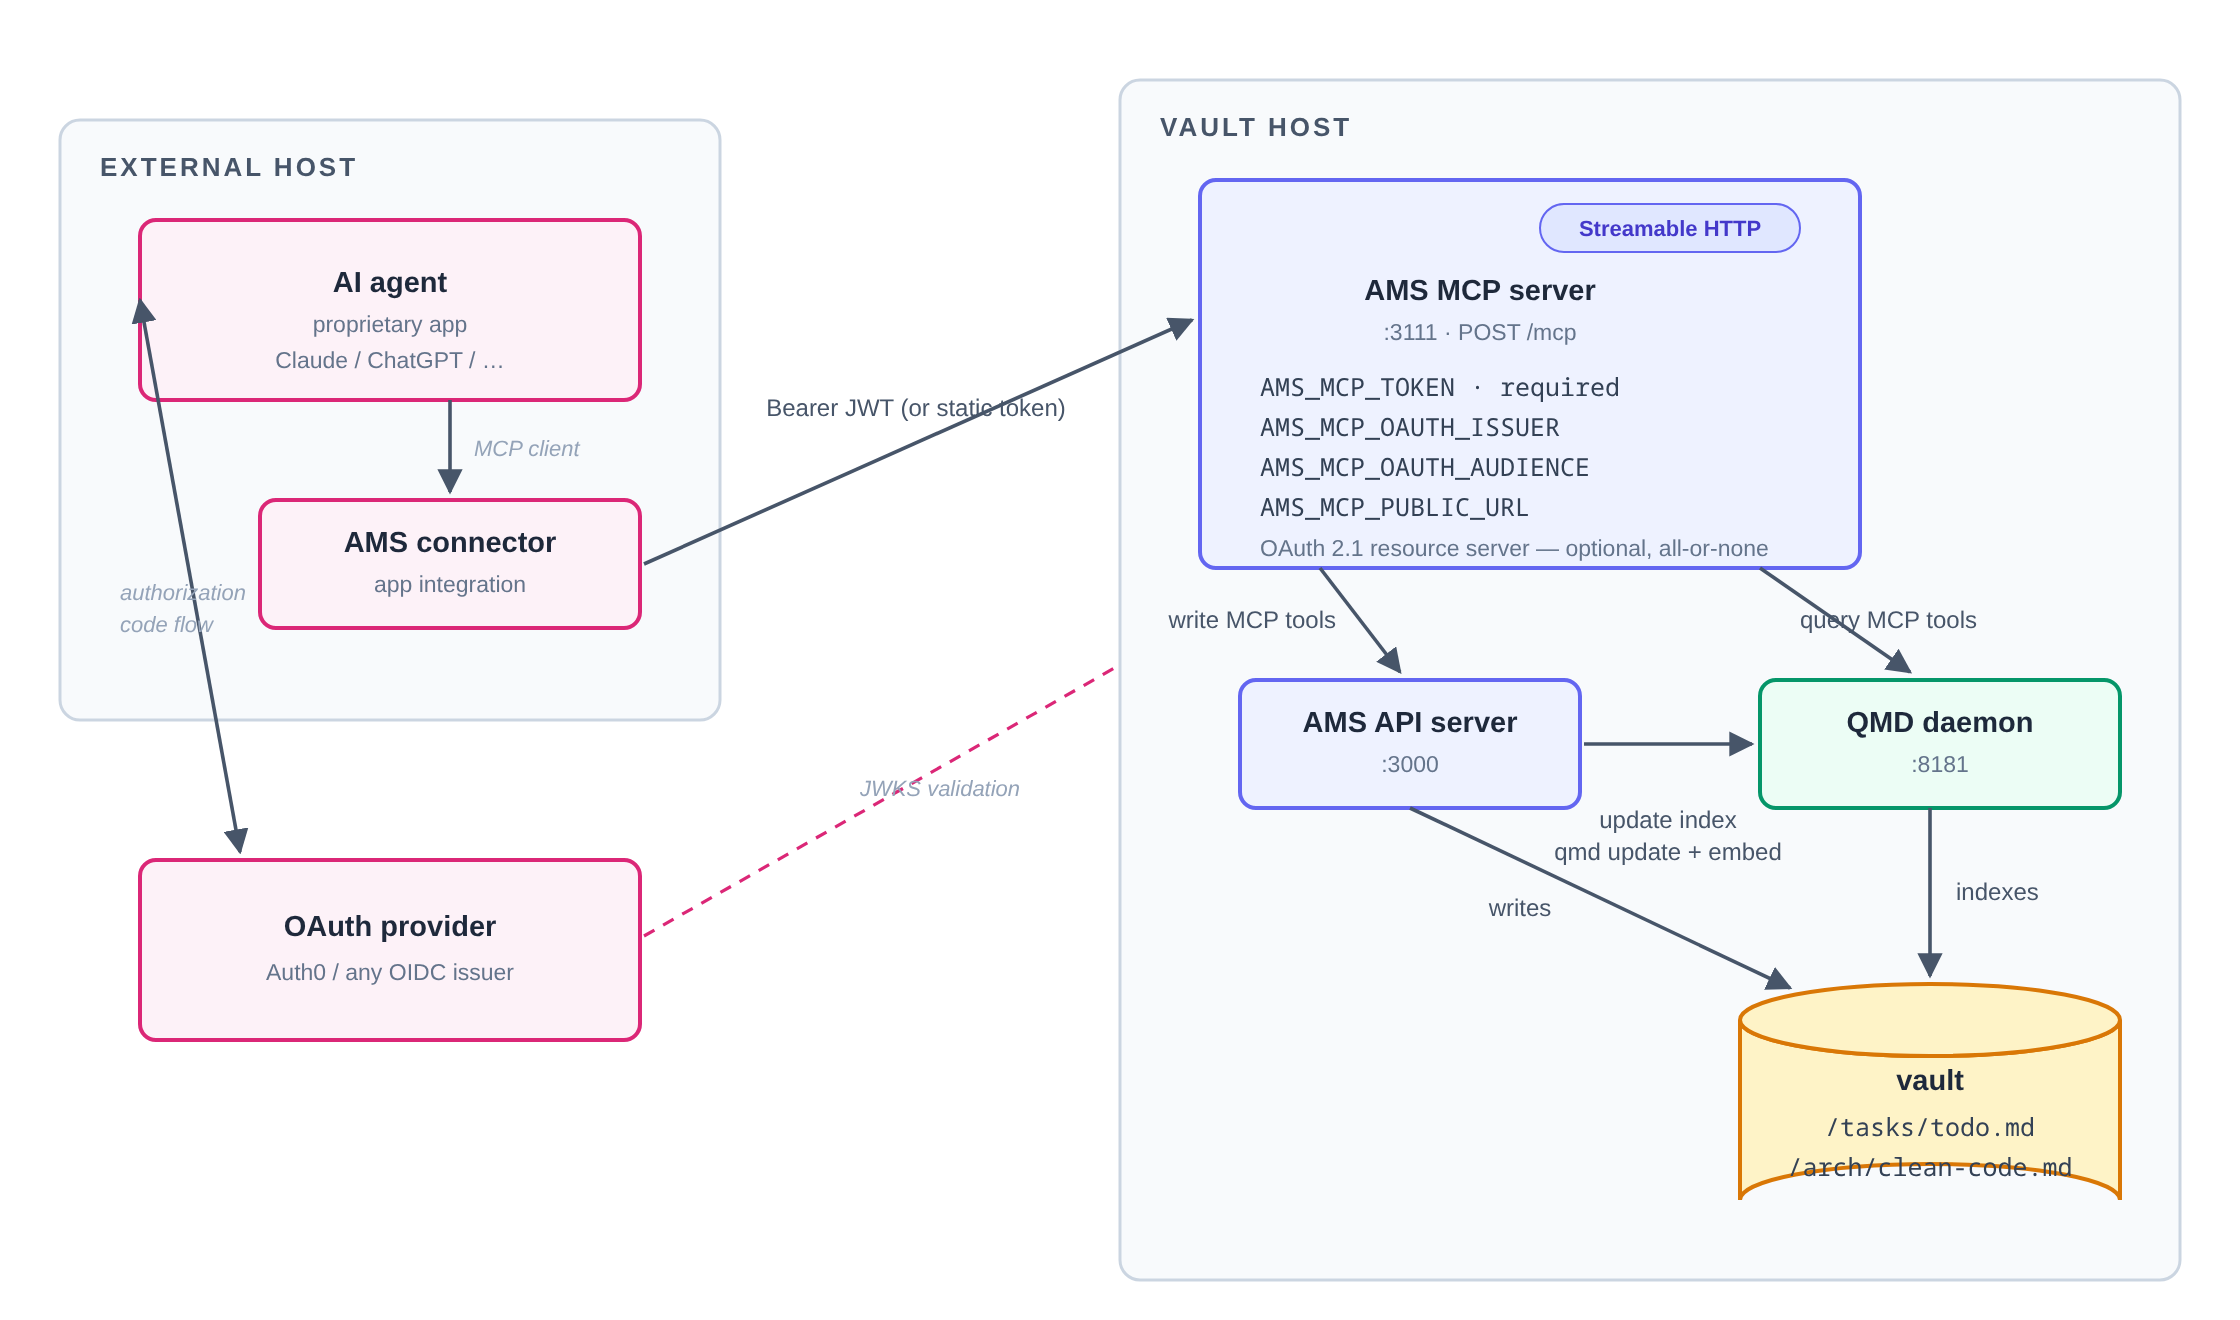
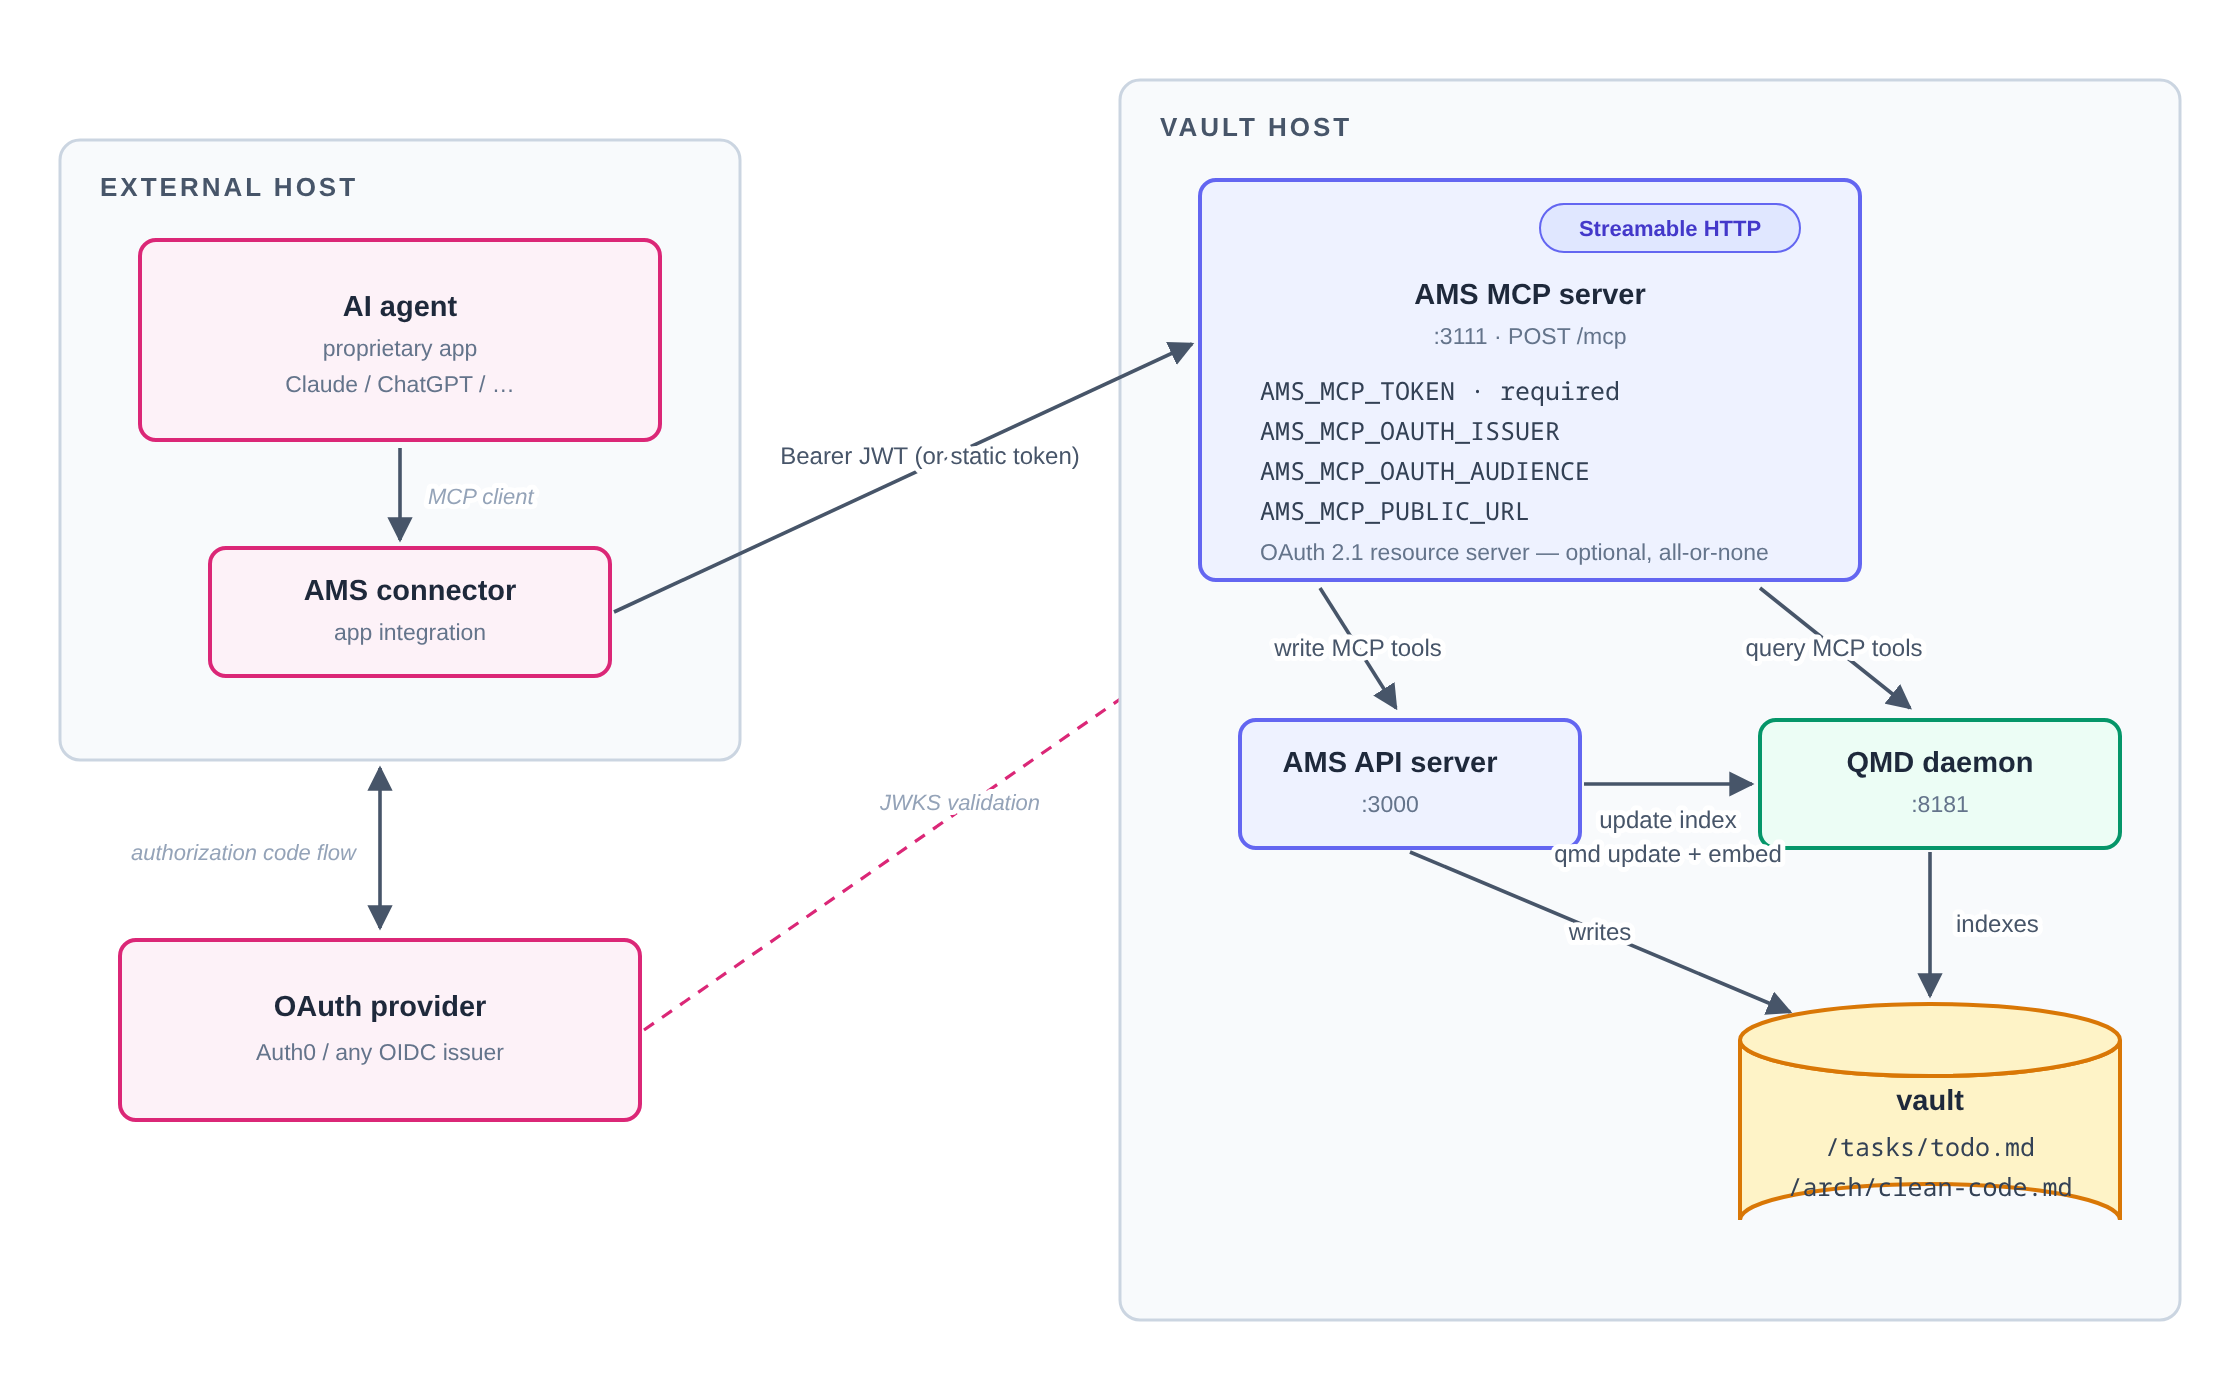
docs: fix diagram label alignment with white halos
Edge labels now carry a white stroke halo (paint-order) so they can sit
on their own connector lines cleanly; the HTTP deployment diagram was
regridded (centered MCP box text, rerouted OAuth arrows, labels placed
on their lines), and the stdio diagram title was recentered. Text-text
collisions and out-of-canvas text verified zero in-browser for all three
diagrams; PNGs re-rendered at 2x.

Refs #46

diff --git a/docs/assets/deployment-http.html b/docs/assets/deployment-http.html
@@ -26,13 +26,20 @@
   svg .env        { font-size: 12.5px; fill: #334155; font-family: ui-monospace, SFMono-Regular, Menlo, Consolas, monospace; }
   svg .flow       { font-size: 12px; fill: #475569; }
   svg .ann        { font-size: 11px; fill: #94a3b8; font-style: italic; }
+  /* White halo so edge labels can sit on top of their own lines cleanly. */
+  svg .flow, svg .ann {
+    paint-order: stroke;
+    stroke: #ffffff;
+    stroke-width: 5px;
+    stroke-linejoin: round;
+  }
   svg .badge-rect { fill: #e0e7ff; stroke: #6366f1; stroke-width: 1; }
   svg .badge-txt  { font-size: 11px; fill: #4338ca; font-weight: 600; }
 </style>
 </head>
 <body>
 <div class="canvas">
-  <svg viewBox="0 0 1120 660" role="img" aria-label="AMS remote HTTP deployment: external agent with OAuth talking to the vault host MCP server">
+  <svg viewBox="0 0 1120 700" role="img" aria-label="AMS remote HTTP deployment: external agent with OAuth talking to the vault host MCP server">
     <defs>
       <marker id="arr" viewBox="0 0 10 10" refX="9" refY="5" markerWidth="7" markerHeight="7" orient="auto-start-reverse">
         <path d="M0,0 L10,5 L0,10 z" fill="#475569"/>
@@ -43,84 +50,85 @@
     </defs>
 
     <!-- EXTERNAL HOST panel -->
-    <rect x="30" y="60" width="330" height="300" rx="10" class="panel"/>
-    <text x="50" y="88" class="ptitle">EXTERNAL HOST</text>
+    <rect x="30" y="70" width="340" height="310" rx="10" class="panel"/>
+    <text x="50" y="98" class="ptitle">EXTERNAL HOST</text>
 
-    <rect x="70" y="110" width="250" height="90" rx="8" class="box-ext"/>
-    <text x="195" y="146" text-anchor="middle" class="lbl">AI agent</text>
-    <text x="195" y="166" text-anchor="middle" class="sub">proprietary app</text>
-    <text x="195" y="184" text-anchor="middle" class="sub">Claude / ChatGPT / …</text>
+    <rect x="70" y="120" width="260" height="100" rx="8" class="box-ext"/>
+    <text x="200" y="158" text-anchor="middle" class="lbl">AI agent</text>
+    <text x="200" y="178" text-anchor="middle" class="sub">proprietary app</text>
+    <text x="200" y="196" text-anchor="middle" class="sub">Claude / ChatGPT / …</text>
 
-    <line x1="225" y1="200" x2="225" y2="246" class="edge" marker-end="url(#arr)"/>
-    <text x="237" y="228" class="ann">MCP client</text>
+    <line x1="200" y1="224" x2="200" y2="270" class="edge" marker-end="url(#arr)"/>
+    <text x="214" y="252" class="ann">MCP client</text>
 
-    <rect x="130" y="250" width="190" height="64" rx="8" class="box-ext"/>
-    <text x="225" y="276" text-anchor="middle" class="lbl">AMS connector</text>
-    <text x="225" y="296" text-anchor="middle" class="sub">app integration</text>
+    <rect x="105" y="274" width="200" height="64" rx="8" class="box-ext"/>
+    <text x="205" y="300" text-anchor="middle" class="lbl">AMS connector</text>
+    <text x="205" y="320" text-anchor="middle" class="sub">app integration</text>
 
     <!-- OAuth provider -->
-    <rect x="70" y="430" width="250" height="90" rx="8" class="box-ext"/>
-    <text x="195" y="468" text-anchor="middle" class="lbl">OAuth provider</text>
-    <text x="195" y="490" text-anchor="middle" class="sub">Auth0 / any OIDC issuer</text>
+    <rect x="60" y="470" width="260" height="90" rx="8" class="box-ext"/>
+    <text x="190" y="508" text-anchor="middle" class="lbl">OAuth provider</text>
+    <text x="190" y="530" text-anchor="middle" class="sub">Auth0 / any OIDC issuer</text>
 
-    <line x1="70" y1="150" x2="120" y2="426" class="edge" marker-start="url(#arr)" marker-end="url(#arr)"/>
-    <text x="60" y="300" text-anchor="start" class="ann">authorization</text>
-    <text x="60" y="316" text-anchor="start" class="ann">code flow</text>
+    <!-- external host <-> OAuth provider -->
+    <line x1="190" y1="384" x2="190" y2="464" class="edge" marker-start="url(#arr)" marker-end="url(#arr)"/>
+    <text x="178" y="430" text-anchor="end" class="ann">authorization code flow</text>
 
-    <line x1="322" y1="468" x2="638" y2="288" class="edge-dash" marker-end="url(#arrp)"/>
-    <text x="470" y="398" text-anchor="middle" class="ann" fill="#db2777">JWKS validation</text>
+    <!-- OAuth provider -> MCP (JWKS) -->
+    <line x1="322" y1="515" x2="640" y2="294" class="edge-dash" marker-end="url(#arrp)"/>
+    <text x="480" y="405" text-anchor="middle" class="ann" fill="#db2777">JWKS validation</text>
 
     <!-- VAULT HOST panel -->
-    <rect x="560" y="40" width="530" height="600" rx="10" class="panel"/>
+    <rect x="560" y="40" width="530" height="620" rx="10" class="panel"/>
     <text x="580" y="68" class="ptitle">VAULT HOST</text>
 
-    <rect x="600" y="90" width="330" height="194" rx="8" class="box-ams"/>
+    <rect x="600" y="90" width="330" height="200" rx="8" class="box-ams"/>
     <rect x="770" y="102" width="130" height="24" rx="12" class="badge-rect"/>
     <text x="835" y="118" text-anchor="middle" class="badge-txt">Streamable HTTP</text>
-    <text x="740" y="150" text-anchor="middle" class="lbl">AMS MCP server</text>
-    <text x="740" y="170" text-anchor="middle" class="sub">:3111 · POST /mcp</text>
-    <text x="630" y="198" class="env">AMS_MCP_TOKEN · required</text>
-    <text x="630" y="218" class="env">AMS_MCP_OAUTH_ISSUER</text>
-    <text x="630" y="238" class="env">AMS_MCP_OAUTH_AUDIENCE</text>
-    <text x="630" y="258" class="env">AMS_MCP_PUBLIC_URL</text>
-    <text x="630" y="278" class="sub" font-size="10.5px">OAuth 2.1 resource server — optional, all-or-none</text>
+    <text x="765" y="152" text-anchor="middle" class="lbl">AMS MCP server</text>
+    <text x="765" y="172" text-anchor="middle" class="sub">:3111 · POST /mcp</text>
+    <text x="630" y="200" class="env">AMS_MCP_TOKEN · required</text>
+    <text x="630" y="220" class="env">AMS_MCP_OAUTH_ISSUER</text>
+    <text x="630" y="240" class="env">AMS_MCP_OAUTH_AUDIENCE</text>
+    <text x="630" y="260" class="env">AMS_MCP_PUBLIC_URL</text>
+    <text x="630" y="280" class="sub" font-size="10.5px">OAuth 2.1 resource server — optional, all-or-none</text>
 
-    <rect x="620" y="340" width="170" height="64" rx="8" class="box-ams"/>
-    <text x="705" y="366" text-anchor="middle" class="lbl">AMS API server</text>
-    <text x="705" y="386" text-anchor="middle" class="sub">:3000</text>
+    <rect x="620" y="360" width="170" height="64" rx="8" class="box-ams"/>
+    <text x="695" y="386" text-anchor="middle" class="lbl">AMS API server</text>
+    <text x="695" y="406" text-anchor="middle" class="sub">:3000</text>
 
-    <rect x="880" y="340" width="180" height="64" rx="8" class="box-qmd"/>
-    <text x="970" y="366" text-anchor="middle" class="lbl">QMD daemon</text>
-    <text x="970" y="386" text-anchor="middle" class="sub">:8181</text>
+    <rect x="880" y="360" width="180" height="64" rx="8" class="box-qmd"/>
+    <text x="970" y="386" text-anchor="middle" class="lbl">QMD daemon</text>
+    <text x="970" y="406" text-anchor="middle" class="sub">:8181</text>
 
-    <line x1="792" y1="372" x2="876" y2="372" class="edge" marker-end="url(#arr)"/>
-    <text x="834" y="414" text-anchor="middle" class="flow">update index</text>
-    <text x="834" y="430" text-anchor="middle" class="flow" font-size="11px">qmd update + embed</text>
+    <line x1="792" y1="392" x2="876" y2="392" class="edge" marker-end="url(#arr)"/>
+    <text x="834" y="414" text-anchor="middle" class="flow" font-size="11px">update index</text>
+    <text x="834" y="431" text-anchor="middle" class="flow" font-size="11px">qmd update + embed</text>
 
     <!-- vault cylinder -->
-    <path d="M 870 510 A 95 18 0 0 0 1060 510 L 1060 600 A 95 18 0 0 0 870 600 Z" class="store"/>
-    <ellipse cx="965" cy="510" rx="95" ry="18" class="store" fill="#fde68a"/>
-    <text x="965" y="545" text-anchor="middle" class="lbl">vault</text>
-    <text x="965" y="568" text-anchor="middle" class="env" font-size="12px">/tasks/todo.md</text>
-    <text x="965" y="588" text-anchor="middle" class="env" font-size="12px">/arch/clean-code.md</text>
+    <path d="M 870 520 A 95 18 0 0 0 1060 520 L 1060 610 A 95 18 0 0 0 870 610 Z" class="store"/>
+    <ellipse cx="965" cy="520" rx="95" ry="18" class="store" fill="#fde68a"/>
+    <text x="965" y="555" text-anchor="middle" class="lbl">vault</text>
+    <text x="965" y="578" text-anchor="middle" class="env" font-size="12px">/tasks/todo.md</text>
+    <text x="965" y="598" text-anchor="middle" class="env" font-size="12px">/arch/clean-code.md</text>
 
-    <!-- external to MCP -->
-    <line x1="322" y1="282" x2="596" y2="160" class="edge" marker-end="url(#arr)"/>
-    <text x="458" y="208" text-anchor="middle" class="flow">Bearer JWT (or static token)</text>
+    <!-- external connector to MCP -->
+    <line x1="307" y1="306" x2="596" y2="172" class="edge" marker-end="url(#arr)"/>
+    <text x="465" y="232" text-anchor="middle" class="flow" font-size="11px">Bearer JWT (or static token)</text>
 
     <!-- MCP to API / QMD -->
-    <line x1="660" y1="284" x2="700" y2="336" class="edge" marker-end="url(#arr)"/>
-    <text x="668" y="314" text-anchor="end" class="flow">write MCP tools</text>
+    <line x1="660" y1="294" x2="698" y2="354" class="edge" marker-end="url(#arr)"/>
+    <text x="679" y="328" text-anchor="middle" class="flow">write MCP tools</text>
 
-    <line x1="880" y1="284" x2="955" y2="336" class="edge" marker-end="url(#arr)"/>
-    <text x="900" y="314" text-anchor="start" class="flow">query MCP tools</text>
+    <line x1="880" y1="294" x2="955" y2="354" class="edge" marker-end="url(#arr)"/>
+    <text x="917" y="328" text-anchor="middle" class="flow">query MCP tools</text>
 
     <!-- to vault -->
-    <line x1="705" y1="404" x2="895" y2="494" class="edge" marker-end="url(#arr)"/>
-    <text x="760" y="458" text-anchor="middle" class="flow">writes</text>
+    <line x1="705" y1="426" x2="895" y2="506" class="edge" marker-end="url(#arr)"/>
+    <text x="800" y="470" text-anchor="middle" class="flow">writes</text>
 
-    <line x1="965" y1="404" x2="965" y2="488" class="edge" marker-end="url(#arr)"/>
-    <text x="978" y="450" class="flow">indexes</text>
+    <line x1="965" y1="426" x2="965" y2="498" class="edge" marker-end="url(#arr)"/>
+    <text x="978" y="466" class="flow">indexes</text>
   </svg>
 </div>
 </body>

diff --git a/docs/assets/deployment-stdio.html b/docs/assets/deployment-stdio.html
@@ -25,6 +25,13 @@
   svg .env        { font-size: 12.5px; fill: #334155; font-family: ui-monospace, SFMono-Regular, Menlo, Consolas, monospace; }
   svg .flow       { font-size: 12px; fill: #475569; }
   svg .ann        { font-size: 11px; fill: #94a3b8; font-style: italic; }
+  /* White halo so edge labels can sit on top of their own lines cleanly. */
+  svg .flow, svg .ann {
+    paint-order: stroke;
+    stroke: #ffffff;
+    stroke-width: 5px;
+    stroke-linejoin: round;
+  }
   svg .badge-rect { fill: #e0e7ff; stroke: #6366f1; stroke-width: 1; }
   svg .badge-txt  { font-size: 11px; fill: #4338ca; font-weight: 600; }
 </style>
@@ -52,7 +59,7 @@
     <rect x="110" y="260" width="260" height="150" rx="8" class="box-ams"/>
     <rect x="288" y="272" width="60" height="24" rx="12" class="badge-rect"/>
     <text x="318" y="288" text-anchor="middle" class="badge-txt">stdio</text>
-    <text x="230" y="304" text-anchor="middle" class="lbl">AMS MCP server</text>
+    <text x="240" y="308" text-anchor="middle" class="lbl">AMS MCP server</text>
     <text x="140" y="332" class="env">AMS_API_URL</text>
     <text x="140" y="352" class="env">AMS_QMD_URL</text>
     <text x="140" y="390" class="sub" font-style="italic">no auth — local process</text>

diff --git a/docs/assets/overview.html b/docs/assets/overview.html
@@ -29,6 +29,13 @@
   svg .sub        { font-size: 11.5px; fill: #64748b; }
   svg .flow       { font-size: 12px;  fill: #475569; font-family: ui-monospace, SFMono-Regular, Menlo, Consolas, monospace; }
   svg .ann        { font-size: 11px;  fill: #94a3b8; font-style: italic; }
+  /* White halo so edge labels can sit on top of their own lines cleanly. */
+  svg .flow, svg .ann {
+    paint-order: stroke;
+    stroke: #ffffff;
+    stroke-width: 5px;
+    stroke-linejoin: round;
+  }
 </style>
 </head>
 <body>
